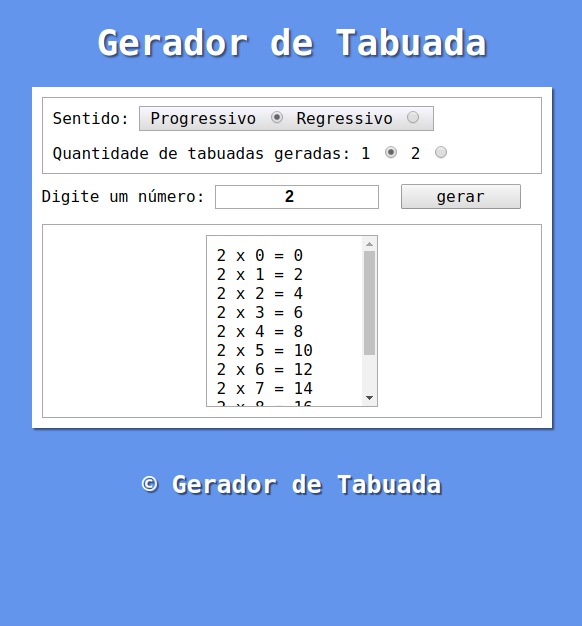
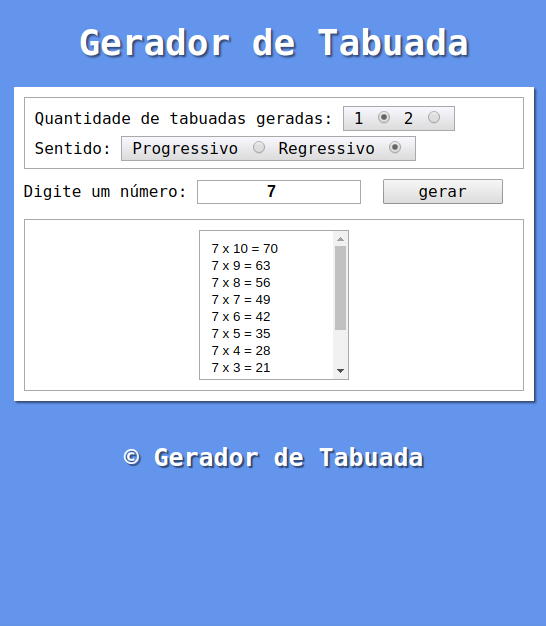
add novas funções do programa
add opção de sentido para a 2ª tabuada gerada;

add possibilidade de gerar tabuadas diferentes com sentidos diferentes;

atualizado arquivo estilo.css por conta das funções adicionadas;

atualizado arquivo index.html para adição das novas funções;

atualizado arquivo script.js para gerar as novas funções;

atualizadas as imagens da pasta preview.

Changed region(s): [[0.0, 0.1214, 0.9963, 0.7891], [0.467, 0.0304, 0.8718, 0.0911], [0.1245, 0.0304, 0.4359, 0.0911]]

diff --git a/javascript/gerador de tabuada/script.js b/javascript/gerador de tabuada/script.js
@@ -1,98 +1,171 @@
-function mostrar()
-{
+function mostrar(){
+
     qtd = document.getElementsByName('qtd')
     if(qtd[1].checked)
     {
         document.querySelector('div#num2').style.display = 'block'
-        document.querySelector('div#resultado2').style.display = 'block'
-        lab1.innerHTML = 'Digite o 1° número:'        
+        document.querySelector('select#resultado2').style.display = 'block'
+        document.querySelector('div#sentido2').style.display = 'block'
+        lab1.innerHTML = 'Digite o 1° número:'
+        titSentido.innerHTML = '1° sentido:'
     }
     else
     {
         document.querySelector('div#num2').style.display = 'none'
-        document.querySelector('div#resultado2').style.display = 'none'
-        lab1.innerHTML = 'Digite um número:'        
-    }   
+        document.querySelector('select#resultado2').style.display = 'none'
+        document.querySelector('div#sentido2').style.display = 'none'
+        lab1.innerHTML = 'Digite um número:'
+        titSentido.innerHTML = 'Sentido:'
+    }
 }
 
-function gerar()
-{
-    sent = document.getElementsByName('sentido')    
+//-------------------------------------------------------
+
+function gerar(){
+
+    sent = document.getElementsByName('sentido')
+    sent2 = document.getElementsByName('sentid')    
     num = document.querySelector('input#numero')
     num2 = document.querySelector('input#numero2')
     qtd = document.getElementsByName('qtd')
+    result1 = document.querySelector('select#resultado1')
+    result2 = document.querySelector('select#resultado2')
 
-    if(qtd[1].checked)
-    {
-        if(num.value.length == 0)
-        {
+    if(qtd[1].checked){
+        
+        if(num.value.length == 0){
+            
             alert('[ERRO] - Necessário um número para gerar a 1ª tabuada!')
-        }
-        else if(num2.value.length == 0)
-        {
+        
+        }else if(num2.value.length == 0){
+        
             alert('[ERRO] - Necessário um número para gerar a 2ª tabuada!')
-        }
-        else
-        {
+        
+        }else{
+
             numb = Number(num.value)
             numb2 = Number(num2.value)
 
-            if(sent[0].checked)
-            {
+            if(sent[0].checked && sent2[0].checked){
+
                 resultado1.innerHTML = ''
-                for(let i = 0; i <= 10; i++)
-                {
-                    resultado1.innerHTML += `${numb} x ${i} = ${numb*i}` + `<br>`            
+                for(let i = 0; i <= 10; i++){
+                    
+                    let item = document.createElement('option')
+                    item.text = `${numb} x ${i} = ${numb*i}`
+                    item.value = `tabuada-1${i}`
+                    result1.appendChild(item)
                 }
 
                 resultado2.innerHTML = ''
-                for(let i = 0; i <= 10; i++)
-                {
-                    resultado2.innerHTML += `${numb2} x ${i} = ${numb2*i}` + `<br>`            
+                for(let i = 0; i <= 10; i++){
+
+                    let item = document.createElement('option')
+                    item.text = `${numb2} x ${i} = ${numb2*i}`
+                    item.value = `tabuada-2${i}`
+                    result2.appendChild(item)
                 }
-            }
-            else
-            {
+
+            }else if(sent[1].checked && sent2[1].checked){
+
                 resultado1.innerHTML = ''
-                for(let i = 10; i >= 0; i--)
-                {
-                    resultado1.innerHTML += `${numb} x ${i} = ${numb*i}` + `<br>`            
+                for(let i = 10; i >= 0; i--){
+
+                    let item = document.createElement('option')
+                    item.text = `${numb} x ${i} = ${numb*i}`
+                    item.value = `tabuada-1${i}`
+                    result1.appendChild(item)
                 }
 
                 resultado2.innerHTML = ''
-                for(let i = 10; i >= 0; i--)
-                {
-                    resultado2.innerHTML += `${numb2} x ${i} = ${numb2*i}` + `<br>`            
+                for(let i = 10; i >= 0; i--){
+
+                    let item = document.createElement('option')
+                    item.text = `${numb2} x ${i} = ${numb2*i}`
+                    item.value = `tabuada-2${i}`
+                    result2.appendChild(item)
                 }
+
+            }else if(sent[0].checked && sent2[1].checked){
+
+                resultado1.innerHTML = ''
+                for(let i = 0; i <= 10; i++){
+
+                    let item = document.createElement('option')
+                    item.text = `${numb} x ${i} = ${numb*i}`
+                    item.value = `tabuada-1${i}`
+                    result1.appendChild(item)
+                }
+
+                resultado2.innerHTML = ''
+                for(let i = 10; i >= 0; i--){
+
+                    let item = document.createElement('option')
+                    item.text = `${numb2} x ${i} = ${numb2*i}`
+                    item.value = `tabuada-2${i}`
+                    result2.appendChild(item)
+                }
+
+            }else{
+
+                resultado1.innerHTML = ''
+                for(let i = 10; i >= 0; i--){
+
+                    let item = document.createElement('option')
+                    item.text = `${numb} x ${i} = ${numb*i}`
+                    item.value = `tabuada-1${i}`
+                    result1.appendChild(item)
+                }
+
+                resultado2.innerHTML = ''
+                for(let i = 0; i <= 10; i++){
+
+                    let item = document.createElement('option')
+                    item.text = `${numb2} x ${i} = ${numb2*i}`
+                    item.value = `tabuada-2${i}`
+                    result2.appendChild(item)
+                }
+
             }
-        }        
-    }
-    else
-    {
-        if(num.value.length == 0)
-        {
-            alert('[ERRO] - Necessário um número para gerar a tabuada!')
+
         }
-        else
-        {
+
+    }else{
+
+        if(num.value.length == 0){
+
+            alert('[ERRO] - Necessário um número para gerar a tabuada!')
+        
+        }else{
+
             numb = Number(num.value)
 
-            if(sent[0].checked)
-            {
+            if(sent[0].checked){
+
                 resultado1.innerHTML = ''
-                for(let i = 0; i <= 10; i++)
-                {
-                    resultado1.innerHTML += `${numb} x ${i} = ${numb*i}` + `<br>`            
-                } 
-            }
-            else
-            {
-                resultado1.innerHTML = ''
-                for(let i = 10; i >= 0; i--)
-                {
-                    resultado1.innerHTML += `${numb} x ${i} = ${numb*i}` + `<br>`            
+                for(let i = 0; i <= 10; i++){
+
+                    let item = document.createElement('option')
+                    item.text = `${numb} x ${i} = ${numb*i}`
+                    item.value = `tabuada-1${i}`
+                    result1.appendChild(item)
                 }
             }
-        }        
-    }    
+            else{
+
+                resultado1.innerHTML = ''
+                for(let i = 10; i >= 0; i--){
+
+                    let item = document.createElement('option')
+                    item.text = `${numb} x ${i} = ${numb*i}`
+                    item.value = `tabuada-1${i}`
+                    result1.appendChild(item)
+                }
+
+            }
+
+        }
+
+    }
+
 }

diff --git a/javascript/gerador de tabuada/index.html b/javascript/gerador de tabuada/index.html
@@ -17,8 +17,18 @@
     <section>
         <div id="opcoes">
             <div>
-                <span>Sentido:</span>
-                <span id="sentopcoes">
+                <span>Quantidade de tabuadas geradas:</span>                    
+                <span id="qtdopcoes">
+                    <label for="qtd1">1</label>
+                    <input type="radio" name="qtd" id="qtd1" checked onclick="mostrar(num2)">
+                    <label for="qtd2">2</label>
+                    <input type="radio" name="qtd" id="qtd2" onclick="mostrar(num2)">                    
+                </span>
+            </div>
+
+            <div id="sentido1">
+                <span id="titSentido">Sentido:</span>
+                <span class="sentopcoes">
                     <label for="prog">Progressivo</label>
                     <input type="radio" name="sentido" id="prog" checked>
 
@@ -27,14 +37,14 @@
                 </span>
             </div>
 
-            <div id="qtd">
-                <span>Quantidade de tabuadas geradas:</span>
-                    
-                <span>
-                    <label for="qtd1">1</label>
-                    <input type="radio" name="qtd" id="qtd1" checked onclick="mostrar(num2)">
-                    <label for="qtd2">2</label>
-                    <input type="radio" name="qtd" id="qtd2" onclick="mostrar(num2)">                    
+            <div id="sentido2">
+                <span>2° sentido:</span>
+                <span class="sentopcoes">
+                    <label for="prog2">Progressivo</label>
+                    <input type="radio" name="sentid" id="prog2" checked>
+
+                    <label for="reg2">Regressivo</label>
+                    <input type="radio" name="sentid" id="reg2">
                 </span>
             </div>
         </div>
@@ -56,8 +66,8 @@
         </div>
 
         <div class="container" id="boxresultado">                        
-            <div id="resultado1"></div>
-            <div id="resultado2"></div>                
+            <select name="tabuada" id="resultado1" size="10"></select>
+            <select name="tabuada" id="resultado2" size="10"></select>                
         </div>
     </section>
 

diff --git a/javascript/gerador de tabuada/estilo.css b/javascript/gerador de tabuada/estilo.css
@@ -28,14 +28,25 @@ section{
     margin-bottom: 10px;
 }
 
-#sentopcoes{
+#qtdopcoes{
     border: darkgray 1px solid;
     padding: 2px 10px;
     background: linear-gradient(180deg, ghostwhite, gainsboro);
 }
 
-#qtd{
-    margin-top: 15px;
+.sentopcoes{
+    border: darkgray 1px solid;
+    padding: 2px 10px;
+    background: linear-gradient(180deg, ghostwhite, gainsboro);
+}
+
+#sentido1{
+    margin-top: 10px;
+}
+
+#sentido2{
+    margin-top: 10px;
+    display: none;
 }
 
 #num2{
@@ -80,7 +91,6 @@ section{
     border: darkgray 1px solid;
     width: 150px;
     height: 150px;
-    overflow-y: auto;
 }
 
 #resultado2{
@@ -89,7 +99,6 @@ section{
     border: darkgray 1px solid;
     width: 150px;
     height: 150px;
-    overflow-y: auto;
     display: none;
 }
 
